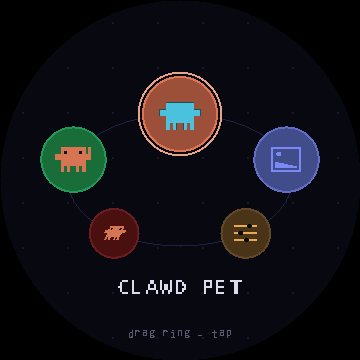
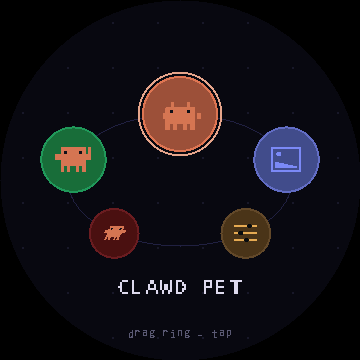
恢复 CLAWD PET 经典橙色主页图标并更新截图

Changed region(s): [[0.4278, 0.275, 0.5806, 0.3667]]

diff --git a/system/game_pet.cpp b/system/game_pet.cpp
@@ -9,6 +9,7 @@
 #include <string.h>
 
 #include "assets_mon.h"
+#include "assets_icons.h"
 #include "clock.h"
 #include "esp_random.h"
 #include "gfx.h"
@@ -826,13 +827,9 @@ void GamePet::act(int a)
 // ------------------------------------------------------------------ drawing ----
 void GamePet::drawIcon(float cx, float cy, float size) const
 {
-    // The adult form rather than the egg: the icon has to say "creature", and an egg
-    // looks like every other round thing on the ring.
-    const mon_form_t &f = formOf(FORM_TIDE);
-    gfx::Sprite s;
-    s.bits = f.bits; s.w = f.w; s.h = f.h; s.rowBytes = f.rowBytes;
-    const uint16_t pal[4] = { 0, PX(f.body), PX(f.edge), PX(f.ink) };
-    gfx::drawSpriteSized(s, cx, cy + size * 0.06f, 0.0f, size, pal);
+    // Keep the launcher identity as classic orange Clawd, independent of the
+    // living pet's current evolution form and its colour.
+    gfx::drawSpriteSized(icon_pet, cx, cy + size * 0.06f, 0.0f, size, icon_pet_palette);
 }
 
 static int wrapThought(const char *s, char out[][24], int maxLines, int cols)

diff --git a/tools/prepare_clawd_voice.py b/tools/prepare_clawd_voice.py
@@ -40,7 +40,7 @@ def main():
     for name in ("pet_display.h", "pet_display.cc", "pet_platform.h", "pet_platform.cc", "pet_ui_pacing.h"):
         shutil.copy2(overlay / name, target / name)
     for name in ("game.h", "game_pet.h", "game_pet.cpp", "gfx.h", "gfx.cpp", "input.h",
-                 "clock.h", "sound.h", "assets_font.h", "assets_mon.h",
+                 "clock.h", "sound.h", "assets_font.h", "assets_mon.h", "assets_icons.h",
                  "outfits.h", "outfits.cpp"):
         shutil.copy2(ROOT / "system" / name, target / name)
 

diff --git a/README.md b/README.md
@@ -214,6 +214,8 @@ system/
 
 The five launcher entries are CLAWD ROLL, CLAWD TAP, CLAWD PET, PHOTOS and SETTINGS.
 Each module draws its own icon; the pet has one entry for both care and voice.
+CLAWD PET keeps its classic orange launcher icon; inside the app, the creature's
+body color continues to follow its current evolution form.
 
 The battery sits in the top right, read from the BQ27220 gauge on the I2C bus rather
 than guessed from an ADC pin: it reports a state of charge and a pack voltage, and it
